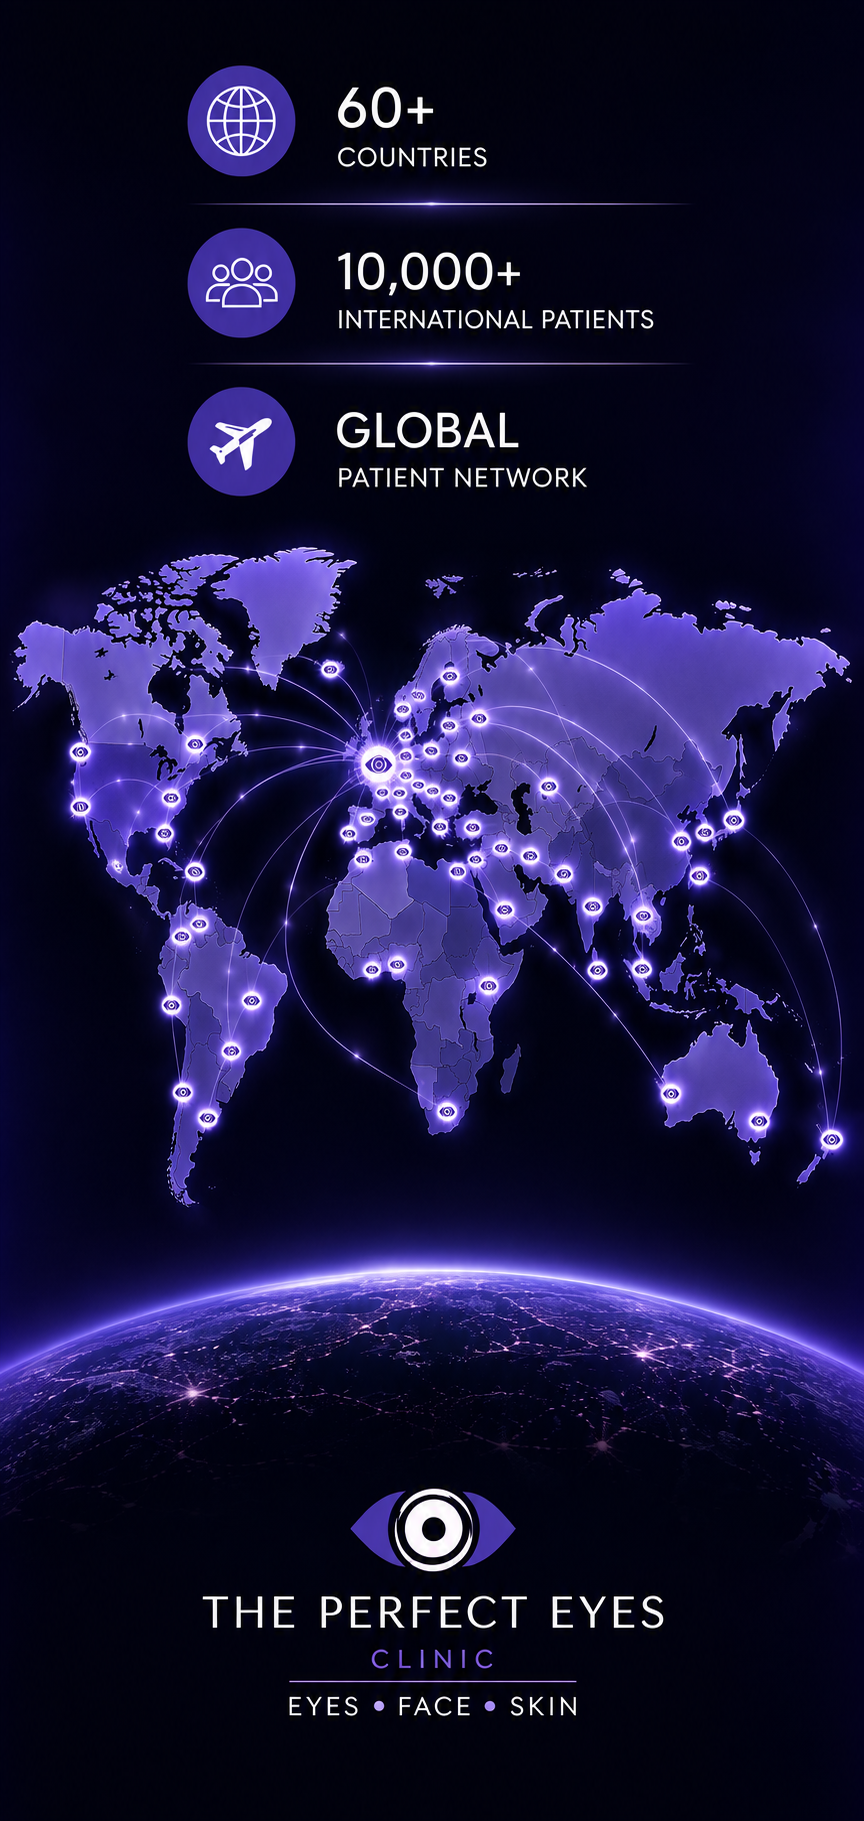
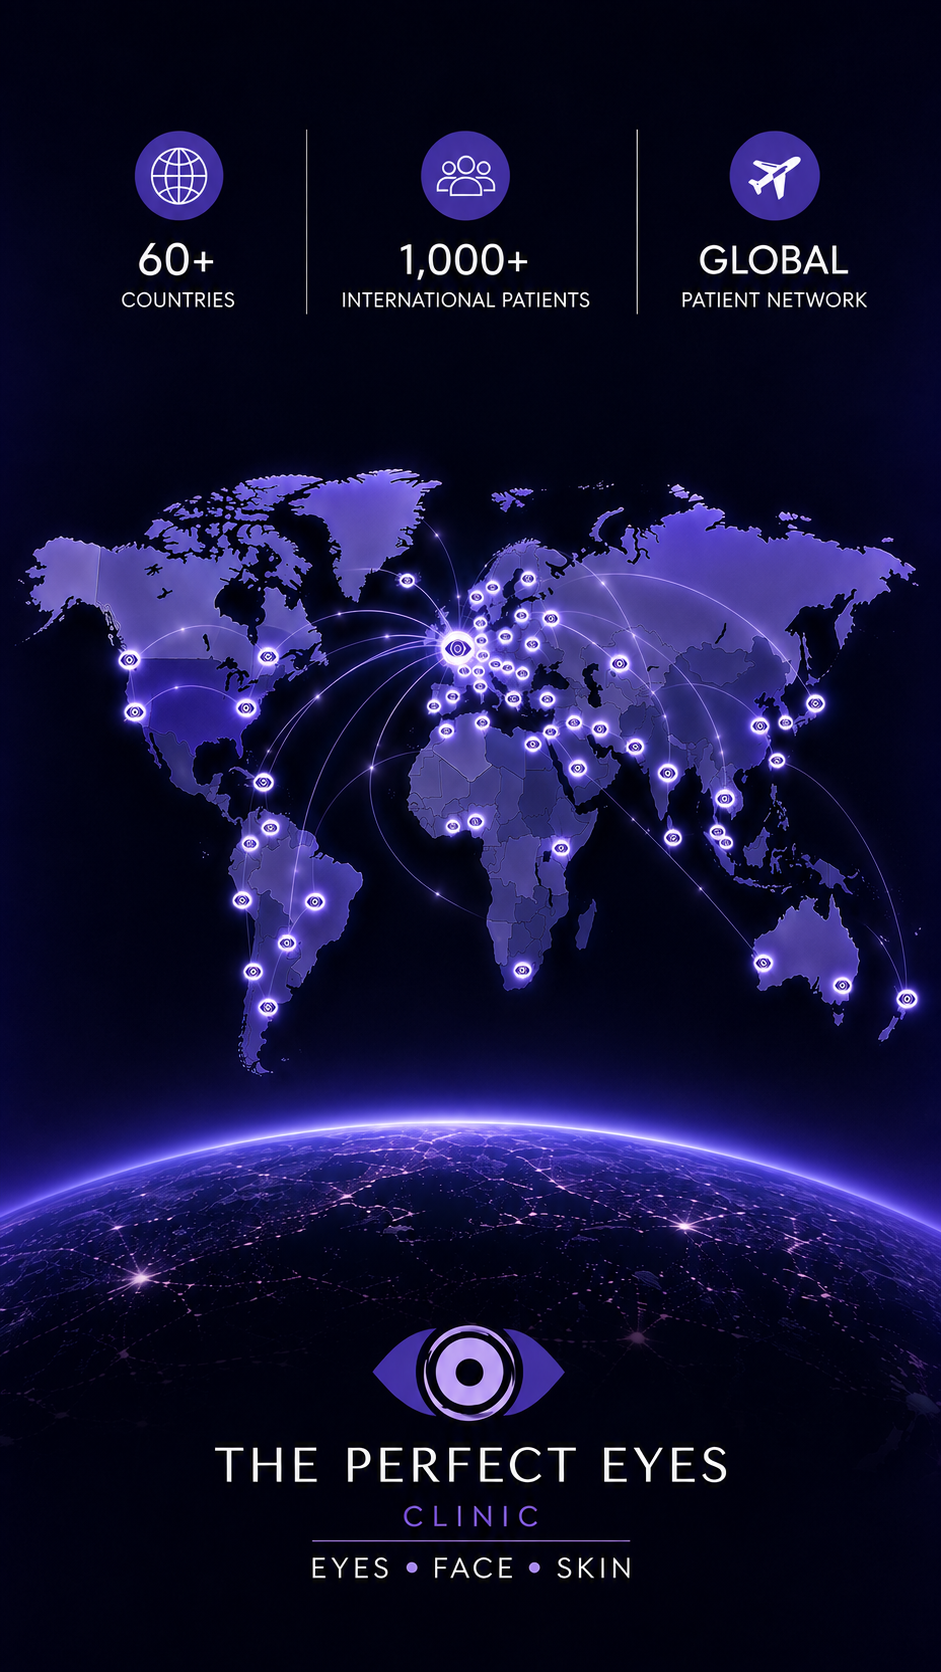
Swap in the new global patient network artwork
Both crops replaced at their existing paths, so the component keeps
reading /global-patient-network.png and its -mobile counterpart and only
the dimensions had to move. Renamed off the uploaded filenames for the
same reason as last time: spaces in a public/ path survive encoding but
make every later reference fragile.

The desktop crop is still 1672x941. The phone crop is not — it went from
864x1821 to 941x1672, a noticeably squarer frame, so the reserved
aspect-ratio in the stylesheet and the height passed to getImageProps
both move with it. Left unchanged, the old ratio would have letterboxed
the new image and shifted the page as it loaded.

The figure on the artwork changed too: it now reads 1,000+ international
patients where the previous version said 10,000+. That number was not
only in the picture — it was transcribed into the map's alt text and
printed as a statistic in the /international-patients hero. Both now say
1,000+, so the site does not quote two different numbers for the same
claim. Nothing else in the repository referenced the old figure.

Verified in a browser at 390, 820 and 1440: correct crop at each, no
broken or failed image requests, no horizontal overflow, and the
optimiser returns the full 1672px source for the desktop crop. Build and
lint clean.

Claude-Session: https://claude.ai/code/session_01WT5WajWxLnPJzSVMW4Xxph

diff --git a/app/page.tsx b/app/page.tsx
@@ -260,7 +260,7 @@ function Stars() {
    graphic states, because they are the only content in it a screen reader
    would otherwise miss entirely. */
 const REACH_ALT =
-  "World map of Perfect Eyes patients: 60+ countries, 10,000+ international patients, a global patient network.";
+  "World map of Perfect Eyes patients: 60+ countries, 1,000+ international patients, a global patient network.";
 
 const REACH_SIZES = "(min-width: 1280px) 1232px, 92vw";
 
@@ -283,8 +283,8 @@ const reachWide = { srcSet: reachWideSrcSet, sizes: reachWideSizes };
 const { props: reachNarrowProps } = getImageProps({
   alt: REACH_ALT,
   src: "/global-patient-network-mobile.png",
-  width: 864,
-  height: 1821,
+  width: 941,
+  height: 1672,
   sizes: REACH_SIZES,
 });
 const reachNarrow = {

diff --git a/app/international-patients/page.tsx b/app/international-patients/page.tsx
@@ -164,7 +164,7 @@ export default function InternationalPatientsPage() {
             </div>
             <div className={styles.stat}>
               <dt className={styles.statLabel}>International patients</dt>
-              <dd className={styles.statValue}>10,000+</dd>
+              <dd className={styles.statValue}>1,000+</dd>
             </div>
             <div className={styles.stat}>
               <dt className={styles.statLabel}>Surgical experience</dt>

diff --git a/app/page.module.css b/app/page.module.css
@@ -507,7 +507,7 @@
   display: block;
   width: 100%;
   height: auto;
-  aspect-ratio: 864 / 1821;
+  aspect-ratio: 941 / 1672;
 }
 @media (min-width: 700px) {
   .reachImg {
